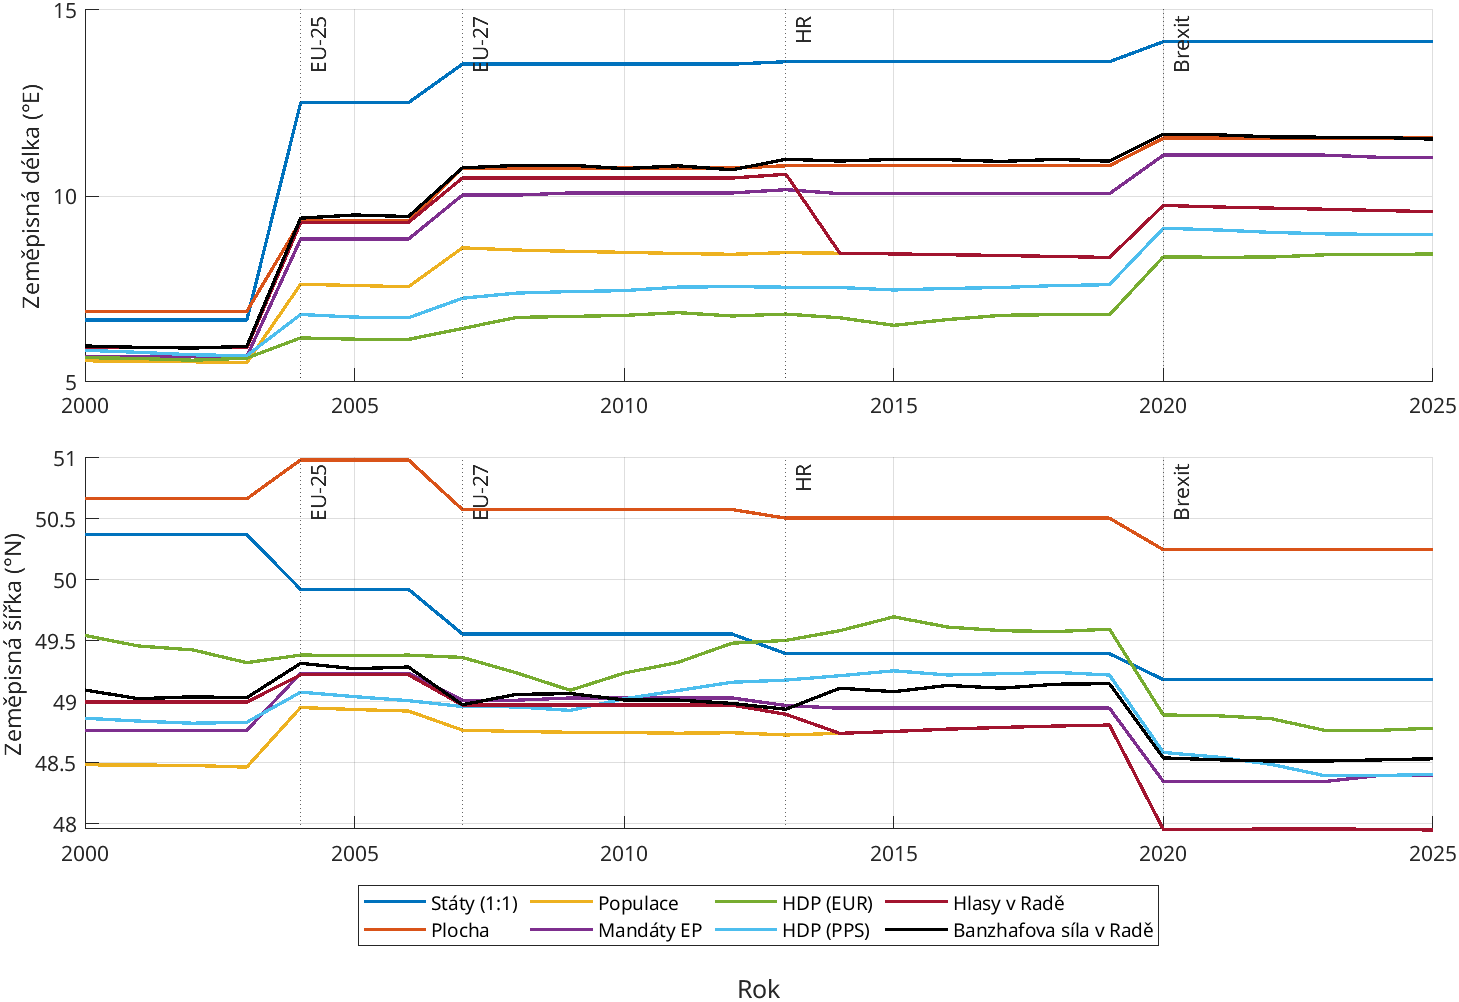
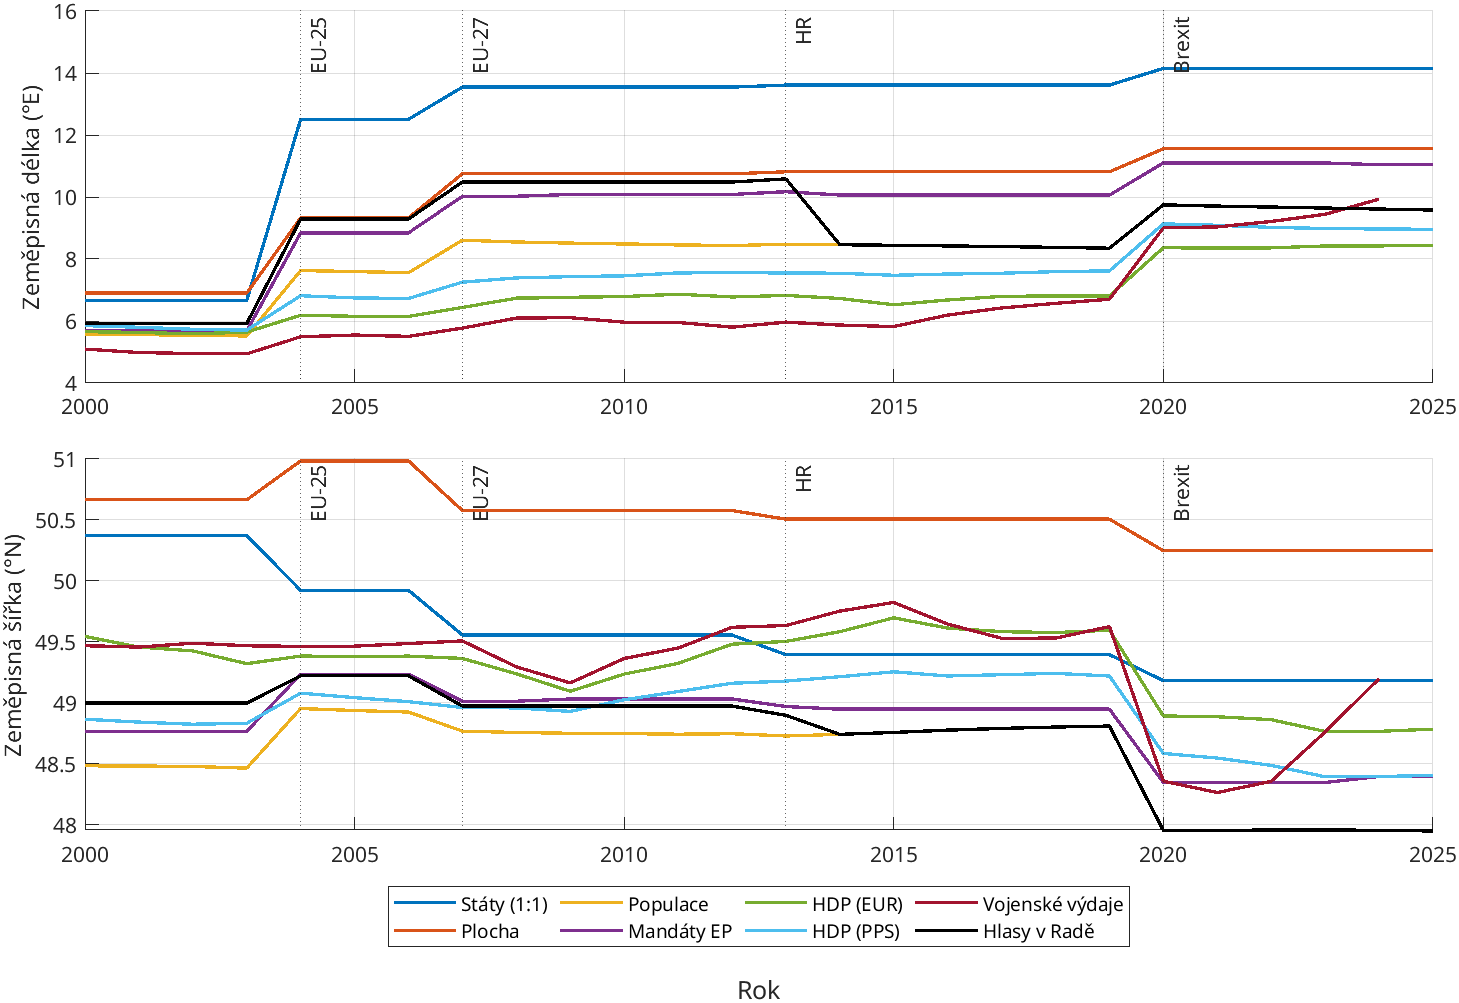
feat: vojenské výdaje místo Banzhafovy síly v metrikách
Nominální vojenské výdaje (SIPRI přes Světovou banku, MS.MIL.XPND.CD,
2000–2024). Eurostat COFOG GF02 nejde použít, chybí v něm UK. Váhou je
částka, ne % HDP: procento je intenzita, ne velikost.

Politický kompozit používá místo Banzhafovy síly formální hlasy v Radě.
banzhaf_mc.m zůstává kvůli výkladu v README. Přegenerované výsledky,
mapy i animace.

diff --git a/kompozit.m b/kompozit.m
@@ -16,10 +16,10 @@ load(fullfile(out, 'vahy_staty.mat'), 'W', 'M', 'countries', 'years', 'R');
 S = structfun(@(w) shares(w, M), W, 'UniformOutput', false);
 
 %% Předvolby vah (součet nemusí být 1, normalizuje se)
-P.politicky  = struct('rada_sila', 0.4, 'ep', 0.3, 'staty', 0.3);
+P.politicky  = struct('rada_hlasy', 0.4, 'ep', 0.3, 'staty', 0.3);
 P.ekonomicky = struct('hdp_eur', 0.5, 'hdp_pps', 0.5);
 P.vyvazeny   = struct('populace', 1/3, ...
-    'rada_sila', 0.4/3, 'ep', 0.3/3, 'staty', 0.3/3, ...   % 1/3 politika
+    'rada_hlasy', 0.4/3, 'ep', 0.3/3, 'staty', 0.3/3, ...  % 1/3 politika
     'hdp_eur', 0.5/3, 'hdp_pps', 0.5/3);                   % 1/3 ekonomika
 
 % Varianty: {název, váhy, metoda}
@@ -31,12 +31,15 @@ V = {
     'entropie',           'entropy',    'linear'
     'pca',                'pca',        'linear'
 };
-SP = rmfield(S, 'rada_hlasy');     % od 2014 = populace, duplikovalo by váhu
+% objektivní váhy (entropie, PCA) bez hlasů v Radě: od 2014 = populace,
+% takže by populace dostala dvojí váhu
+SP = rmfield(S, 'rada_hlasy');
 
 K = table(years, 'VariableNames', {'year'});
 fprintf('Váhy metrik v jednotlivých variantách:\n');
 for i = 1:size(V, 1)
-    [Wc, a] = composite_weights(SP, V{i, 2}, V{i, 3});
+    if ischar(V{i, 2}), Si = SP; else, Si = S; end
+    [Wc, a] = composite_weights(Si, V{i, 2}, V{i, 3});
     [K.(V{i, 1} + "_lat"), K.(V{i, 1} + "_lon")] = ...
         centroid_series(Wc, M, countries.lat, countries.lon);
     fprintf('  %-14s %s\n', V{i, 1}, format_alpha(a));
@@ -45,7 +48,7 @@ end
 % Geometrický medián (Weberův bod) pro populaci a vyvážený kompozit
 [K.populace_median_lat, K.populace_median_lon] = ...
     centroid_series(W.populace, M, countries.lat, countries.lon, 'median');
-Wv = composite_weights(SP, P.vyvazeny, 'linear');
+Wv = composite_weights(S, P.vyvazeny, 'linear');
 [K.vyvazeny_median_lat, K.vyvazeny_median_lon] = ...
     centroid_series(Wv, M, countries.lat, countries.lon, 'median');
 

diff --git a/main.m b/main.m
@@ -15,15 +15,22 @@ seats = readtable(fullfile(root, 'data', 'ep_seats.csv'), 'TextType', 'string');
 codes = countries.code;
 nC = numel(codes);  nY = numel(years);
 
-%% Eurostat: obyvatelstvo k 1. 1. a HDP (nominální EUR, PPS)
+%% Data: obyvatelstvo k 1. 1. a HDP (Eurostat), vojenské výdaje (SIPRI)
 geoQ = strjoin("geo=" + codes, "&");
 pop = fetch_eurostat('demo_pjan', geoQ + "&sex=T&age=TOTAL", fullfile(raw, 'pop.csv'));
 gdp = fetch_eurostat('nama_10_gdp', geoQ + "&na_item=B1GQ&unit=CP_MEUR", fullfile(raw, 'gdp_eur.csv'));
 pps = fetch_eurostat('nama_10_gdp', geoQ + "&na_item=B1GQ&unit=CP_MPPS_EU27_2020", fullfile(raw, 'gdp_pps.csv'));
 
+% vojenské výdaje: SIPRI přes Světovou banku, běžné USD. Měna nevadí, těžiště
+% používá jen podíly států v rámci roku.
+mil = fetch_worldbank('MS.MIL.XPND.CD', countries.iso3, fullfile(raw, 'mil_usd.csv'));
+[~, ix] = ismember(mil.iso3, countries.iso3);
+mil.geo = codes(ix);
+
 POP = to_matrix(pop, codes, years);   % [roky x státy]
 GDP = to_matrix(gdp, codes, years);
 PPS = to_matrix(pps, codes, years);
+MIL = to_matrix(mil, codes, years);
 
 %% Metriky: každá je matice vah [roky x státy]
 M = is_member(countries, years);
@@ -35,16 +42,15 @@ W.populace = POP;
 W.ep       = ep_matrix(seats, codes, years);
 W.hdp_eur  = GDP;
 W.hdp_pps  = PPS;
+W.vojenske = MIL;                                        % vojenské výdaje (nominálně)
 W.rada_hlasy = zeros(nY, nC);
-W.rada_sila  = zeros(nY, nC);                            % Banzhafův index
 
 [~, vRow] = ismember(codes, votes.code);
 for y = 1:nY
     m = M(y, :);
     if years(y) <= 2003, v = votes.w_eu15(vRow); else, v = votes.w_nice(vRow); end
-    [rule, w] = council_rule(years(y), v(m), POP(y, m));
+    [~, w] = council_rule(years(y), v(m), POP(y, m));
     W.rada_hlasy(y, m) = w;
-    W.rada_sila(y, m)  = banzhaf_mc(rule, nnz(m), 1e5, years(y));
 end
 
 %% Těžiště

diff --git a/src/fetch_worldbank.m b/src/fetch_worldbank.m
@@ -1,0 +1,25 @@
+function T = fetch_worldbank(indicator, iso3, cacheFile)
+%FETCH_WORLDBANK Stáhne ukazatel ze Světové banky (API v2) jako long tabulku.
+%   T = fetch_worldbank('MS.MIL.XPND.CD', iso3, 'data/raw/mil.csv') vrací
+%   sloupce iso3, year, value. Je-li cacheFile na disku, načte se z něj.
+%   Vojenské výdaje (MS.MIL.*) jsou data SIPRI, která Světová banka přebírá.
+%   Eurostat (COFOG GF02) je pro tento účel nepoužitelný, chybí v něm UK.
+if nargin >= 3 && isfile(cacheFile)
+    T = readtable(cacheFile, 'TextType', 'string');
+    return
+end
+url = sprintf('https://api.worldbank.org/v2/country/%s/indicator/%s?format=json&date=2000:2030&per_page=5000', ...
+    strjoin(iso3, ';'), indicator);
+js = webread(url, weboptions('Timeout', 60, 'ContentType', 'json'));
+rows = js{2};                                  % js{1} jsou metadata (stránkování)
+if iscell(rows), rows = [rows{:}]; end
+iso = string({rows.countryiso3code})';
+year = str2double(string({rows.date}))';
+v = cellfun(@(x) double_or_nan(x), {rows.value})';
+T = rmmissing(table(iso, year, v, 'VariableNames', {'iso3', 'year', 'value'}));
+if nargin >= 3, writetable(T, cacheFile); end
+end
+
+function d = double_or_nan(x)
+if isempty(x), d = NaN; else, d = double(x); end
+end

diff --git a/src/plot_results.m b/src/plot_results.m
@@ -4,7 +4,7 @@ cols = [lines(7); 0 0 0];                 % lines() má jen 7 barev, 8. metrika 
 cols = cols(1:numel(names), :);
 labels = struct('staty', 'Státy (1:1)', 'plocha', 'Plocha', 'populace', 'Populace', ...
     'ep', 'Mandáty EP', 'hdp_eur', 'HDP (EUR)', 'hdp_pps', 'HDP (PPS)', ...
-    'rada_hlasy', 'Hlasy v Radě', 'rada_sila', 'Banzhafova síla v Radě');
+    'rada_hlasy', 'Hlasy v Radě', 'vojenske', 'Vojenské výdaje');
 
 % 1) mapa
 f = figure('Visible', 'off', 'Position', [100 100 1100 800]);

diff --git a/src/varianty_posunu.m b/src/varianty_posunu.m
@@ -7,7 +7,7 @@ V(1).T = readtable(fullfile(out, 'teziste_po_letech.csv'));
 V(1).series = {
     'Státy 1:1', 'staty';  'Plocha', 'plocha';  'Populace', 'populace'
     'Mandáty EP', 'ep';  'HDP (EUR)', 'hdp_eur';  'HDP (PPS)', 'hdp_pps'
-    'Hlasy v Radě', 'rada_hlasy';  'Banzhafova síla v Radě', 'rada_sila'};
+    'Hlasy v Radě', 'rada_hlasy';  'Vojenské výdaje', 'vojenske'};
 
 V(2).file = '2_kompozit';
 V(2).title = 'Varianta 2: kompozitní indexy (státy)';

diff --git a/README.md b/README.md
@@ -38,7 +38,8 @@ světle modré, Spojené království (člen do 2020) světlejší a ostatní st
 | `src/load_nuts_geometry.m` | polygony GISCO → těžiště a plocha regionů (`polyshape`) |
 | `src/spherical_centroid.m` | vážené těžiště na kouli (přes 3D vektory) |
 | `src/council_rule.m` | pravidla kvalifikované většiny: Amsterdam (EU-15), Nice, Lisabon |
-| `src/banzhaf_mc.m` | Banzhafův index hlasovací síly (Monte Carlo) |
+| `src/banzhaf_mc.m` | Banzhafův index hlasovací síly (Monte Carlo), výklad níže, mezi metrikami těžiště není |
+| `src/fetch_worldbank.m` | stahování ukazatelů Světové banky (vojenské výdaje SIPRI), cache |
 | `src/fetch_eurostat.m` | stahování a parsování JSON-stat z Eurostatu, cache |
 | `src/is_member.m` | matice členství rok × stát (k 31. 12.) |
 | `data/countries.csv` | státy, přibližné středy území, plocha, data vstupu/odchodu |
@@ -88,10 +89,12 @@ odhaduje Monte Carlem (náhodné koalice, chyba ~0,1 %).
   byla **0 %**. Ostatní státy měly sudé počty hlasů a kvóta byla 12, takže jeho hlas
   nikdy nic nerozhodl. Přesný výpočet ze všech 64 koalic to potvrzuje.
 
-V projektu jsou proto dvě metriky. **Hlasy v Radě** jsou formální váha (od roku 2014
-totožná s populací). **Banzhafova síla v Radě** je skutečný vliv a její těžiště leží
-o ~160 km východněji (2025), protože malé státy (často na východě) mají víc síly, než by
-odpovídalo jejich velikosti.
+Mezi metrikami těžiště jsou jen **hlasy v Radě**, tedy formální váha (od roku 2014
+totožná s populací). Banzhafova síla v metrikách byla, ale nahradily ji **vojenské
+výdaje**. `src/banzhaf_mc.m` v projektu zůstává a výpočet výše jde zopakovat. Těžiště
+Banzhafovy síly leželo v roce 2025 asi o 160 km východněji než těžiště formálních
+hlasů, protože malé státy (často na východě) mají víc síly, než by odpovídalo jejich
+velikosti.
 
 ## Návrhy metrik
 
@@ -103,12 +106,20 @@ Metriky ✅ jsou implementované, ostatní jsou návrhy na další práci.
 |---|---|---|
 | ✅ **Státy 1:1** | „jeden stát, jeden hlas“: Komise (1 komisař/stát), jednomyslnost, Evropská rada | definice |
 | ✅ **Hlasy v Radě EU** | 2000–2003 vážené hlasy EU-15 (87), 2004–2013 Nice (321/345/352), od 2014 dvojí většina, kde hlasem je populace | smlouvy |
-| ✅ **Banzhafova síla v Radě** | jak často je stát rozhodující pro vznik většiny. Váha hlasů a skutečná moc se liší: podle Nice měly Polsko a Španělsko s 27 hlasy téměř stejnou sílu jako Německo s 29 | výpočet |
+| Banzhafova síla v Radě | jak často je stát rozhodující pro vznik většiny (výklad výše). Implementováno v `banzhaf_mc.m`, mezi metrikami nahrazeno vojenskými výdaji | výpočet |
 | ✅ **Mandáty v EP** | degresivní proporcionalita, malé státy jsou nadreprezentované | rozhodnutí o složení EP |
 | Shapley–Shubikův index | alternativa k Banzhafovi (záleží na pořadí, ve kterém se koalice skládá) | výpočet |
 | Síla v Radě guvernérů ECB | jen eurozóna, rotující hlasovací práva od 2015 | ECB |
 | Kapitálový klíč ECB | 50 % populace + 50 % HDP, mění se po 5 letech | ECB |
 | Váha frakcí v EP | těžiště EPP vs. S&D vs. Renew atd. (kde „sedí“ která frakce) | EP, ParlGov |
+
+### Bezpečnost
+
+| Metrika | Poznámka |
+|---|---|
+| ✅ **Vojenské výdaje** (nominálně, běžné USD) | SIPRI přes Světovou banku (`MS.MIL.XPND.CD`), 2000–2024. Váhou je částka, ne % HDP: procento je intenzita a jako váha by malý stát s vysokým podílem (Řecko) vážil víc než velký (Německo). Eurostat (COFOG GF02) nejde použít, chybí v něm UK |
+| Vojenské výdaje v % HDP | `MS.MIL.XPND.GD.ZS`, vhodné pro srovnání států, ne jako váha těžiště |
+| Počet vojáků | SIPRI / Světová banka `MS.MIL.TOTL.P1` |
 
 ### Demografie a území
 
@@ -146,10 +157,10 @@ Posun 2000 → 2025 (`results/souhrn_posunu.csv`):
 | Metrika | 2000 | 2025 | Posun | Směr |
 |---|---|---|---|---|
 | Státy 1:1 | 50,37 N 6,66 E (Lucembursko/Porýní) | 49,18 N 14,15 E (**jižní Čechy**) | **553 km** | V |
-| Banzhafova síla v Radě | 49,10 N 5,97 E | 48,53 N 11,53 E (Bavorsko) | 412 km | V |
 | Mandáty v EP | 48,77 N 5,68 E | 48,40 N 11,04 E | 396 km | V |
 | Plocha | 50,67 N 6,90 E | 50,25 N 11,55 E (Durynsko) | 333 km | V |
 | Populace | 48,48 N 5,57 E (Lotrinsko) | 47,95 N 9,58 E (u Bodamského jezera) | 303 km | V |
+| Vojenské výdaje (do 2024) | 49,47 N 5,09 E | 49,20 N 9,93 E | 352 km | V |
 | Hlasy v Radě | 49,00 N 5,92 E | 47,95 N 9,58 E | 294 km | VJV |
 | HDP v PPS | 48,87 N 5,85 E | 48,41 N 8,96 E | 234 km | V |
 | HDP v EUR | 49,54 N 5,66 E | 48,78 N 8,44 E (Bádensko-Württembersko) | 220 km | VJV |
@@ -160,7 +171,7 @@ Co je z toho vidět:
    o 164 km při rozšíření 2004, o 79 km v roce 2007 a o 141 km při brexitu 2020.
    V ostatních letech se meziročně hýbe jen o 1–4 km.
 2. **Čím „rovnostářštější“ metrika, tím dál na východ.** Pořadí od západu na východ je
-   HDP → populace → EP → Banzhaf → státy 1:1. Malé východní státy mají v institucích
+   HDP → populace → vojenské výdaje → EP → plocha → státy 1:1. Malé východní státy mají v institucích
    víc váhy, než odpovídá jejich obyvatelstvu, a ještě víc v poměru k jejich ekonomice.
 3. **Mezi rozšířeními se populační těžiště plíží zpátky na západ** (2007–2019 z 8,61° na 8,35° v. d.,
    2020–2025 z 9,75° na 9,58° v. d.). Příčinou je vylidňování východu a jihovýchodu
@@ -168,11 +179,15 @@ Co je z toho vidět:
 4. **Ekonomické těžiště se mezi rozšířeními naopak posouvá na východ** (HDP v EUR
    2004–2019 z 6,18° na 6,81° v. d.). To je ekonomická konvergence nových členů.
 5. **Lisabonská reforma 2014 posunula těžiště hlasů v Radě o ~150 km na západ**
-   (viz skok červené křivky v `casove_rady.png`). Systém z Nice nadhodnocoval
+   (viz skok křivky „Hlasy v Radě“ v `casove_rady.png`). Systém z Nice nadhodnocoval
    středně velké státy, hlavně Polsko a Španělsko, a dvojí většina tuto výhodu
    přesunula k Německu.
 6. Brexit posunul **všechny** metriky na jihovýchod, protože UK leželo na severozápadním
    okraji.
+7. **Vojenské výdaje mají největší skok při brexitu (219 km)**, protože UK mělo
+   největší vojenský rozpočet v EU. V roce 2000 leží jejich těžiště nejzápadněji ze všech
+   metrik (UK + Francie). Po invazi na Ukrajinu se posouvá na **severovýchod**
+   (2022→2024 o 108 km na 49,20 N 9,93 E) se zbrojením Polska a Pobaltí.
 
 ![mapa](results/mapa_teziste.png)
 ![časové řady](results/casove_rady.png)
@@ -193,12 +208,15 @@ na **podíl státu na EU** v daném roce (součet = 1). Teprve tyto podíly se s
 
 **Tři způsoby, jak zvolit váhy αₖ:**
 
-- **Ručně (předvolby):** politický (Banzhaf 0,4 + EP 0,3 + státy 0,3), ekonomický
+- **Ručně (předvolby):** politický (hlasy v Radě 0,4 + EP 0,3 + státy 0,3), ekonomický
   (HDP EUR + PPS), vyvážený (⅓ populace, ⅓ politika, ⅓ ekonomika).
 - **Entropické váhy:** metrika rozložená mezi státy nerovnoměrněji nese víc
-  informace. Státy 1:1 tak dostanou 0 a HDP v EUR nejvíc (0,25).
+  informace. Státy 1:1 tak dostanou 0 a nejvíc vojenské výdaje (0,23), které jsou
+  ze všech metrik nejkoncentrovanější (FR + DE + IT).
 - **PCA (postup OECD Handbook):** čtverce ladění 1. hlavní komponenty. Vychází
   skoro rovnoměrně (~0,18), protože metriky spolu silně korelují.
+
+Entropie a PCA zahrnují i vojenské výdaje, a proto končí rokem 2024.
 
 **Jiný způsob, jak spojit více proměnných:** místo těžiště (průměru) se dá hledat
 **geometrický medián**, tedy bod s nejmenším součtem vážených vzdáleností („kam
@@ -208,17 +226,17 @@ leží přesně v Lucembursku. Ověřil jsem to hrubou sítí i `fminsearch`.
 
 | Varianta | 2000 | 2025 | Posun |
 |---|---|---|---|
-| Politický | 49,38 N 6,08 E | 48,69 N 12,16 E | 449 km |
-| Vyvážený (lineární) | 49,02 N 5,80 E | 48,42 N 10,14 E | 325 km |
-| PCA | 49,13 N 5,87 E | 48,61 N 10,09 E | 314 km |
-| Vyvážený (geometrický) | 48,93 N 5,74 E | 48,43 N 9,86 E | 307 km |
-| Entropie | 49,23 N 5,89 E | 48,70 N 9,72 E | 286 km |
+| Politický | 49,34 N 6,06 E | 48,47 N 11,36 E | 399 km |
+| Vyvážený (lineární) | 49,01 N 5,79 E | 48,34 N 9,88 E | 309 km |
+| PCA (do 2024) | 49,19 N 5,71 E | 48,72 N 9,79 E | 303 km |
+| Vyvážený (geometrický) | 48,92 N 5,74 E | 48,34 N 9,67 E | 296 km |
+| Entropie (do 2024) | 49,29 N 5,70 E | 48,82 N 9,68 E | 295 km |
 | Ekonomický | 49,20 N 5,75 E | 48,59 N 8,70 E | 226 km |
 | Medián populace | 49,20 N 5,90 E | 49,29 N 10,02 E | 299 km |
-| Medián vyvážený | 49,78 N 6,10 E | 49,81 N 10,31 E | 302 km |
+| Medián vyvážený | 49,78 N 6,10 E | 49,78 N 10,18 E | 293 km |
 
 Medián leží asi o 1° severněji než těžiště, protože ho jih (Itálie, Španělsko,
-Řecko, Kypr) netáhne tolik. Geometrický kompozit je o 0,3° západněji než lineární:
+Řecko, Kypr) netáhne tolik. Geometrický kompozit je o 0,2° západněji než lineární:
 penalizuje státy s vysokou populací a nízkým HDP, tedy hlavně východ.
 
 ![kompozit](results/kompozit_mapa.png)
@@ -316,6 +334,8 @@ společnou paletou přes `rgb2ind` + `imwrite`. Funguje to i v `matlab -batch`.
 - Obyvatelstvo, HDP, zaměstnanost: © European Union, Eurostat (`demo_pjan`, `nama_10_gdp`,
   `nama_10_pe`, `demo_r_pjanaggr3`, `nama_10r_3gdp`, `nama_10r_3empers`), CC BY 4.0.
 - Hranice států a regionů NUTS: © EuroGeographics for the administrative boundaries (GISCO).
+- Vojenské výdaje: SIPRI Military Expenditure Database přes World Bank Open Data
+  (`MS.MIL.XPND.CD`), CC BY 4.0.
 - Vážené hlasy v Radě a mandáty v EP: smlouvy EU a rozhodnutí o složení Evropského
   parlamentu (ručně přepsáno do `data/`).
 
@@ -331,7 +351,8 @@ stáhne vše potřebné.
 - Přechodná období se ignorují: hlasy v Radě květen–říjen 2004, volitelný systém
   z Nice v letech 2014–2017, 18 dodatečných poslanců EP od prosince 2011.
 - Pravidlo z Nice počítá s populační pojistkou 62 % vždy (ve skutečnosti se uplatňovala jen na žádost).
-- Banzhaf je odhad Monte Carlem s 1e5 koalicemi, chyba je v řádu 0,1 %.
+- Banzhaf (výklad, není mezi metrikami) je odhad Monte Carlem, chyba je v řádu 0,1 %.
+- Vojenské výdaje jsou definice SIPRI (blízká NATO), v běžných USD. Data za 2025 zatím nejsou.
 - Zámořská území (Kanárské ostrovy, Azory, francouzské DOM) se ve středu státu nepočítají.
   Do populace a HDP z Eurostatu ale zahrnutá jsou.
 
